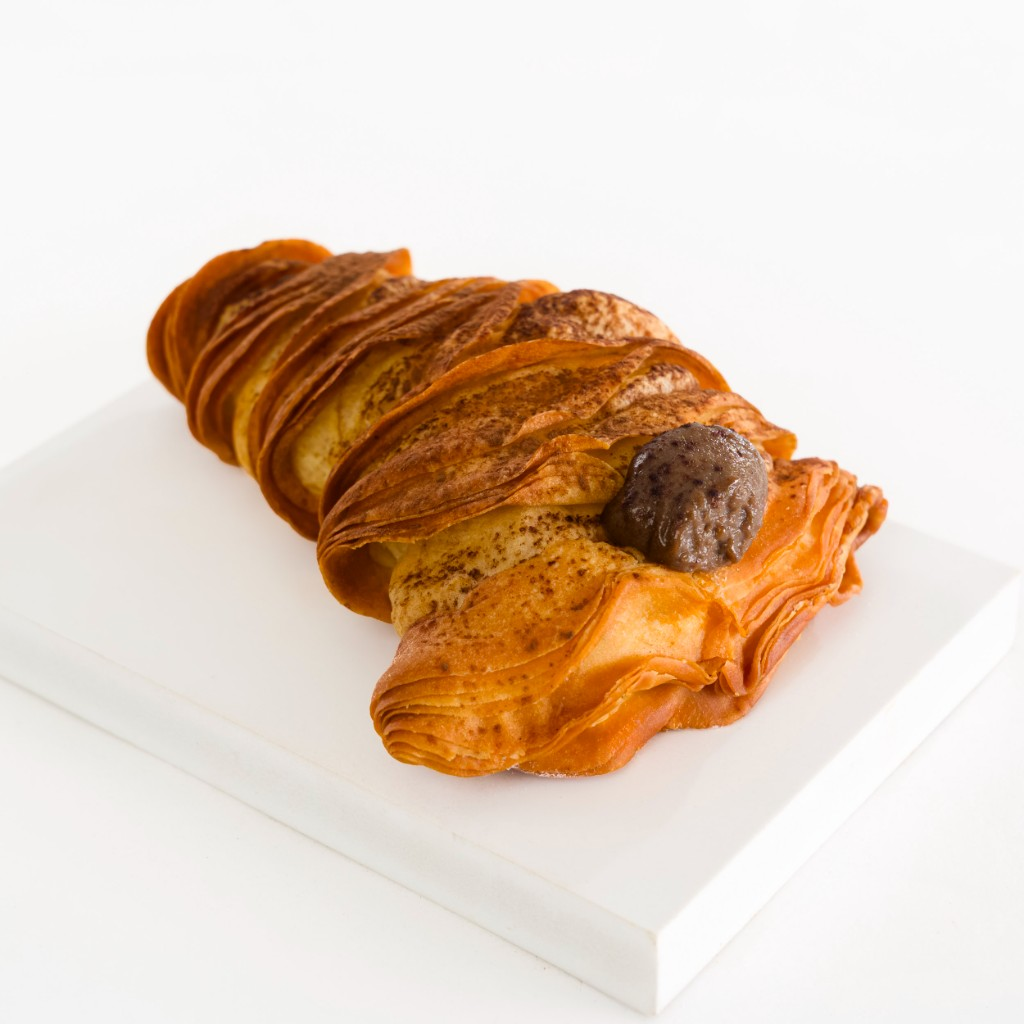
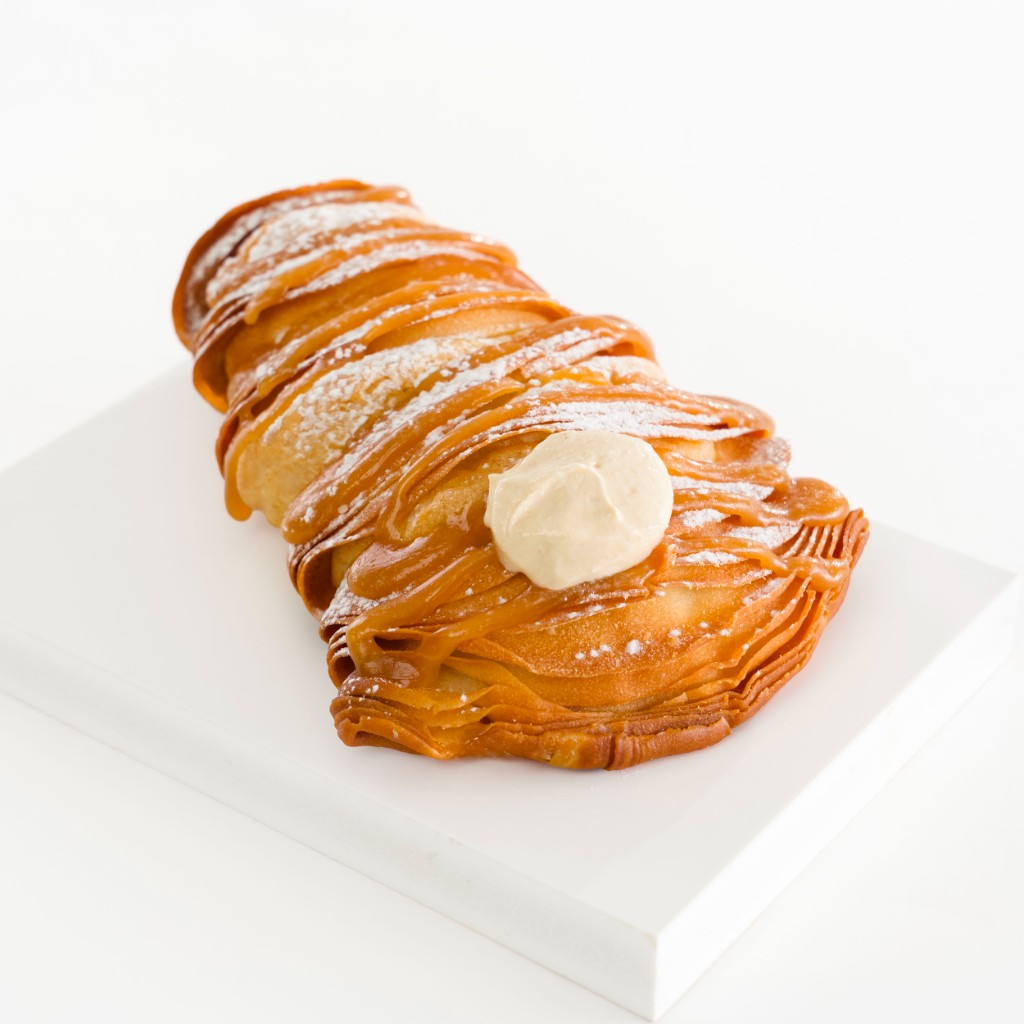
Unify Cannoli Tradicional and Lobster Tail Caramel photos site-wide.
Centralize studio image paths in menu-images, resolve home and vitrine from menu item IDs, and sync legacy asset filenames.

Changed region(s): [[0.125, 0.1562, 0.875, 0.7812]]

diff --git a/src/lib/home-products.ts b/src/lib/home-products.ts
@@ -1,4 +1,5 @@
-import { HOME_IMAGES } from "./home-images";
+import { getMenuItemImage } from "@/data/menu";
+import { CUSTOM_CAKE_IMAGES } from "@/lib/custom-cake-images";
 
 export type ProductId =
   | "cannoliTradizionale"
@@ -20,30 +21,34 @@ export type SignatureProduct = {
 export const SIGNATURE_PRODUCTS: SignatureProduct[] = [
   {
     id: "cannoliTradizionale",
-    image: HOME_IMAGES.cannoliTradizionale,
+    image: getMenuItemImage("cannoli-tradizionale"),
     href: "/cardapio",
     gridClass: "md:col-span-7 md:h-[520px]",
     imageZoom: 1.28,
   },
   {
     id: "lobsterTail",
-    image: HOME_IMAGES.lobsterTail,
+    image: getMenuItemImage("lobster-tail"),
     href: "/cardapio",
     gridClass: "md:col-span-5 md:h-[520px]",
     imageZoom: 1.42,
   },
   {
     id: "cannoli",
-    image: HOME_IMAGES.cannoli,
+    image: getMenuItemImage("cannoli-tradizionale"),
     href: "/cardapio",
     gridClass: "md:col-span-4 md:h-[440px]",
     imageZoom: 1.48,
   },
   {
     id: "fondantCake",
-    image: HOME_IMAGES.fondantCake,
+    image: CUSTOM_CAKE_IMAGES.birthday,
     href: "/bolos-personalizados",
     gridClass: "md:col-span-8 md:h-[440px]",
-    compositionImages: HOME_IMAGES.diyCakesComposition,
+    compositionImages: [
+      CUSTOM_CAKE_IMAGES.baptism,
+      CUSTOM_CAKE_IMAGES.birthday,
+      CUSTOM_CAKE_IMAGES.gallery[5],
+    ],
   },
 ];

diff --git a/src/lib/menu-images.ts b/src/lib/menu-images.ts
@@ -1,6 +1,11 @@
 /** Local product photography — `/public/images/menu/` */
 const img = (file: string) => `/images/menu/${file}`;
 
+/** Fotos oficiais do estúdio — referência única por produto */
+const CANNOLI_TRADIZIONALE_FILE = "cannoli-chocolate-chip.png";
+const LOBSTER_TAIL_CARAMELO_FLOR_SAL_FILE =
+  "folhado-cauda-lagosta-doce-leite.png";
+
 export const MENU_IMAGES = {
   rainbowCookies: img(
     "1155-Edit-Edit-769770b5-c8b7-43dd-a3d4-f7a6f7f01e7a.png",
@@ -12,11 +17,14 @@ export const MENU_IMAGES = {
   folhadoSfogliatellaPistache: img("folhado-sfogliatella-pistache.png"),
   folhadoCaudaLagostaDoceLeite: img("lobster-tail-limao-siciliano.png"),
   folhadoCaudaLagostaCacau: img("folhado-cauda-lagosta-cacau.png"),
-  folhadoSfogliatellaFondente: img("folhado-cauda-lagosta-doce-leite.png"),
+  lobsterTailCarameloFlorDeSal: img(LOBSTER_TAIL_CARAMELO_FLOR_SAL_FILE),
+  /** @deprecated Use lobsterTailCarameloFlorDeSal */
+  folhadoSfogliatellaFondente: img(LOBSTER_TAIL_CARAMELO_FLOR_SAL_FILE),
   /** Cannoli */
-  cannoliTradizionale: img("cannoli-chocolate-chip.png"),
+  cannoliTradizionale: img(CANNOLI_TRADIZIONALE_FILE),
   cannoliLimaoSiciliano: img("cannoli-limao-siciliano.png"),
-  cannoliSiciliano: img("cannoli-chocolate-chip.png"),
+  /** Mesma foto do Cannoli Tradicional (Signatures) */
+  cannoliSiciliano: img(CANNOLI_TRADIZIONALE_FILE),
   cannoliPistachio: img("cannoli-pistachio.png"),
   cannoliPistachioFondente: img("cannoli-pistachio-fondente.png"),
   cannoliCioccolato: img("cannoli-cioccolato.png"),

diff --git a/src/data/menu.ts b/src/data/menu.ts
@@ -318,7 +318,7 @@ export const MENU_ITEMS: MenuItem[] = applyCatalogPricing([
     category: "cannoli",
     price: 25.99,
     priceFrom: true,
-    image: MENU_IMAGES.folhadoSfogliatellaFondente,
+    image: MENU_IMAGES.lobsterTailCarameloFlorDeSal,
   },
   {
     id: "red-velvet-cupcake",
@@ -588,4 +588,13 @@ export function getItemsBySubgroup(
   return getItemsByCategory(category).filter(
     (item) => item.subgroup === subgroup,
   );
+}
+
+/** Imagem do cardápio por ID — fonte única para home, vitrine e páginas internas */
+export function getMenuItemImage(menuItemId: string): string {
+  const item = MENU_ITEMS.find((entry) => entry.id === menuItemId);
+  if (!item) {
+    throw new Error(`Menu item not found: ${menuItemId}`);
+  }
+  return item.image;
 }

diff --git a/src/components/sections/MenuShowcaseBanner.tsx b/src/components/sections/MenuShowcaseBanner.tsx
@@ -5,19 +5,19 @@ import Image from "next/image";
 import { useTranslations } from "next-intl";
 
 import { FadeIn } from "@/components/animations/FadeIn";
+import { getMenuItemImage } from "@/data/menu";
 import { Link } from "@/i18n/routing";
-import { HOME_IMAGES } from "@/lib/home-images";
 
 const MENU_HIGHLIGHTS = [
   {
     id: "cannoliTradizionale" as const,
-    image: HOME_IMAGES.cannoliTradizionale,
+    menuItemId: "cannoli-tradizionale",
     index: "01",
     imageClass: "object-cover object-center",
   },
   {
     id: "lobsterTail" as const,
-    image: HOME_IMAGES.lobsterTail,
+    menuItemId: "lobster-tail",
     index: "02",
     imageClass: "object-cover object-center",
   },
@@ -35,7 +35,7 @@ export function MenuShowcaseBanner() {
         <div className="grid grid-cols-1 lg:grid-cols-[minmax(0,1fr)_minmax(280px,0.9fr)_minmax(0,1fr)]">
           <div className="relative min-h-[280px] overflow-hidden sm:min-h-[320px] lg:min-h-[460px]">
             <Image
-              src={MENU_HIGHLIGHTS[0].image}
+              src={getMenuItemImage(MENU_HIGHLIGHTS[0].menuItemId)}
               alt={t(`${MENU_HIGHLIGHTS[0].id}.name`)}
               fill
               className="transition-transform duration-[1.4s] ease-[cubic-bezier(0.16,1,0.3,1)] group-hover:scale-[1.03] object-cover object-center"
@@ -76,7 +76,7 @@ export function MenuShowcaseBanner() {
 
           <div className="relative min-h-[280px] overflow-hidden sm:min-h-[320px] lg:min-h-[460px]">
             <Image
-              src={MENU_HIGHLIGHTS[1].image}
+              src={getMenuItemImage(MENU_HIGHLIGHTS[1].menuItemId)}
               alt={t(`${MENU_HIGHLIGHTS[1].id}.name`)}
               fill
               className="transition-transform duration-[1.4s] ease-[cubic-bezier(0.16,1,0.3,1)] group-hover:scale-[1.03] object-cover object-center"

diff --git a/src/lib/home-images.ts b/src/lib/home-images.ts
@@ -1,6 +1,6 @@
+import { getMenuItemImage } from "@/data/menu";
 import { BRAND_IMAGES } from "@/lib/brand-images";
 import { CUSTOM_CAKE_IMAGES } from "@/lib/custom-cake-images";
-import { MENU_IMAGES } from "@/lib/menu-images";
 
 /** Imagens da home — hero e produtos em destaque */
 
@@ -9,9 +9,9 @@ const img = (file: string) => `/images/hero/${file}`;
 export const HOME_IMAGES = {
   hero: img("buddy-bakery.jpg"),
   heroPoster: img("buddy-bakery.jpg"),
-  cannoliTradizionale: MENU_IMAGES.cannoliTradizionale,
-  lobsterTail: MENU_IMAGES.lobsterTail,
-  cannoli: MENU_IMAGES.cannoliTradizionale,
+  cannoliTradizionale: getMenuItemImage("cannoli-tradizionale"),
+  lobsterTail: getMenuItemImage("lobster-tail"),
+  cannoli: getMenuItemImage("cannoli-tradizionale"),
   fondantCake: CUSTOM_CAKE_IMAGES.birthday,
   /** Composição Hello Kitty · Disney · Simpsons */
   diyCakesComposition: [